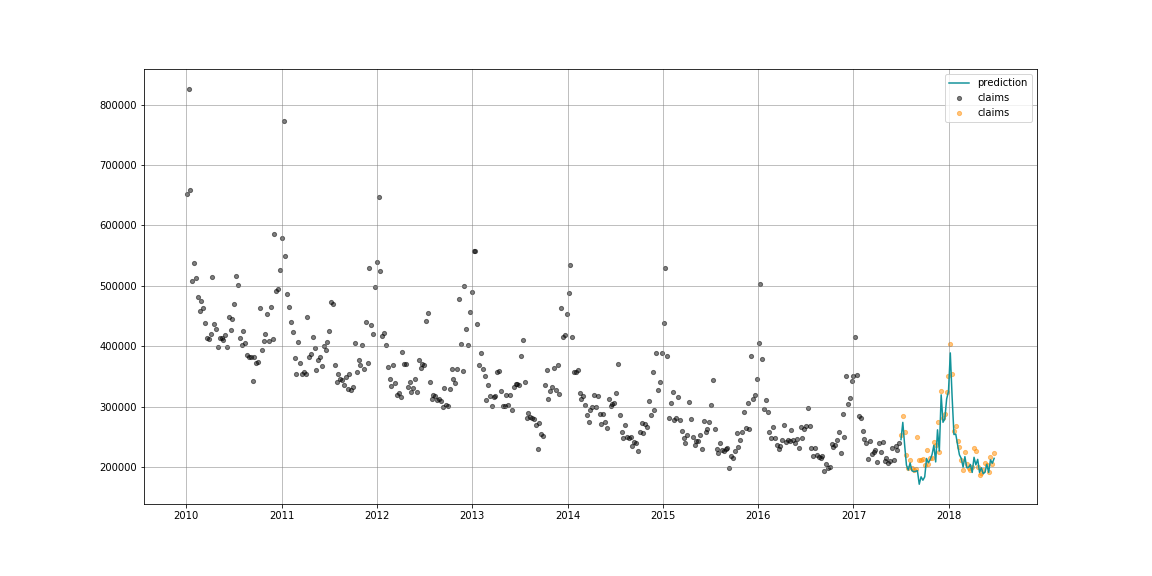
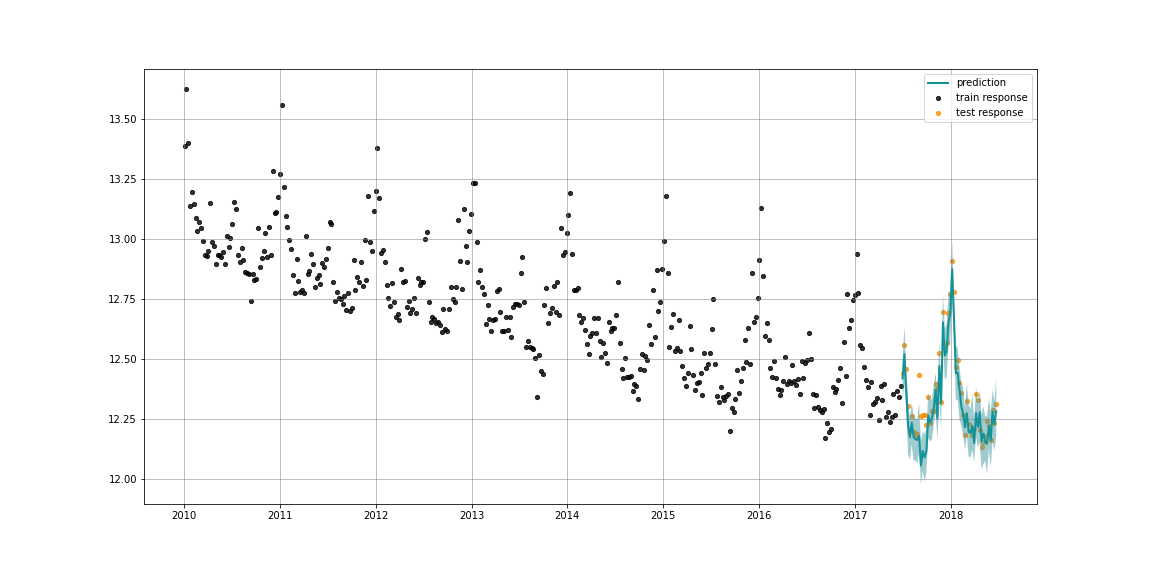
read me fix

diff --git a/README.rst b/README.rst
@@ -1,3 +1,6 @@
+.. image:: docs/img/orbit-icon.png
+    :width: 450
+
 **Disclaimer: This project may contain experimental code and may not be
 ready for general use. Support and/or new releases may be limited.**
 
@@ -40,13 +43,10 @@ Load data
     import pandas as pd
     import numpy as np
 
-    DATA_FILE = "./data/iclaims_example.csv"
-    df_raw = pd.read_csv(DATA_FILE, parse_dates=['week'])
-    df = df_raw.copy()
-
-    # log-transform for additive model
-    df[['claims', 'trend.unemploy', 'trend.filling', 'trend.job']] = \
-    df[['claims', 'trend.unemploy', 'trend.filling', 'trend.job']].apply(np.log)
+    DATA_FILE = "./examples/data/iclaims_example.csv"
+    df = pd.read_csv(DATA_FILE, parse_dates=['week'])
+    df[['claims', 'trend.unemploy', 'trend.filling', 'trend.job']] =\
+        df[['claims', 'trend.unemploy', 'trend.filling', 'trend.job']].apply(np.log)
 
     test_size=52
     train_df=df[:-test_size]
@@ -60,23 +60,17 @@ Local-Global-Trend (LGT) Model with FULL Bayesian Prediction
     from orbit.models.lgt import LGTFull
     from orbit.diagnostics.plot import plot_predicted_data
 
-    lgt_full = LGTFull(
+    lgt = LGTFull(
         response_col='claims',
         date_col='week',
         regressor_col=['trend.unemploy', 'trend.filling', 'trend.job'],
         seasonality=52,
+        prediction_percentiles=[5, 95],
     )
-    lgt_full.fit(df=train_df)
+    lgt.fit(df=train_df)
 
     # predicted df
-    predicted_df = lgt_full.predict(df=test_df)
-
-    # transform back to the original scale
-    train_df[['claims', 'trend.unemploy', 'trend.filling', 'trend.job']] = \
-    train_df[['claims', 'trend.unemploy', 'trend.filling', 'trend.job']].apply(np.exp)
-    test_df[['claims', 'trend.unemploy', 'trend.filling', 'trend.job']] = \
-    test_df[['claims', 'trend.unemploy', 'trend.filling', 'trend.job']].apply(np.exp)
-    predicted_df['prediction'] = predicted_df['prediction'].apply(np.exp)
+    predicted_df = lgt.predict(df=test_df)
 
     # plot predictions
     plot_predicted_data(
